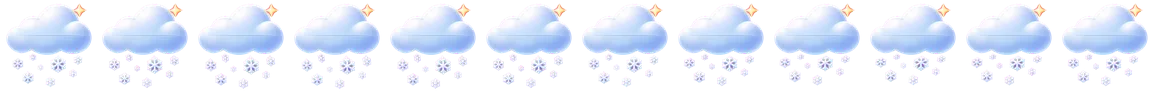
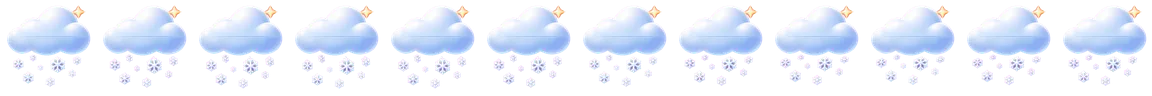
0.27.1: livelier weather pictures (seven animations replaced by the reworked set, 1.5 s loop)
Claude-Session: https://claude.ai/code/session_015MgUfxYvuaf2H4JGRA2gxD

diff --git a/web/sw.js b/web/sw.js
@@ -1,5 +1,5 @@
 // Offline-first service worker. VERSION is kept equal to version.json by scripts/bump-version.mjs (a unit test enforces it).
-const VERSION = '0.27.0';
+const VERSION = '0.27.1';
 const CACHE = `stepup-${VERSION}`;
 const SHELL = ['./', 'index.html', 'manifest.webmanifest', 'version.json', 'icon.svg', 'css/packs.css', 'css/app.css',
   'js/app.js', 'js/routePlan.js', 'js/planner.js', 'js/planApi.js', 'js/ui/mapScreen.js', 'js/ui/planner.js', 'js/theme-boot.js', 'js/util.js', 'js/i18n.js', 'js/native.js', 'js/icons.js', 'js/brand.js', 'js/brandData.js', 'js/iconData.js', 'js/geo.js', 'js/workout.js', 'js/metronome.js', 'js/cadence.js', 'js/audio.js', 'js/format.js', 'js/store.js', 'js/ui/home.js', 'js/plan.js', 'js/indicators.js', 'js/appVersion.js', 'js/art.js', 'js/voice.js', 'js/records.js', 'js/facts.js', 'js/actions.js', 'js/guide.js', 'js/strings08.js', 'js/strings09.js', 'js/strings10.js', 'js/strings11.js', 'js/appShare.js', 'js/changelog.js', 'js/ui/shareApp.js', 'js/ui/whatsnew.js', 'js/permissions.js', 'js/ui/permissions.js', 'js/characterData.js', 'js/puppetRig.js', 'js/ui/puppet.js', 'js/ui/character.js', 'art/character/walk.webp', 'art/character/run.webp', 'art/character/pose-idle.webp', 'art/character/pose-jump.webp', 'art/character/pose-cheer.webp', 'art/character/pose-wave.webp', 'art/character/pose-rest.webp', 'art/character/pose-stretch.webp', 'art/character/pose-medal.webp', 'art/character/pose-trophy.webp', 'art/character/pose-podium.webp', 'art/character/pose-point.webp', 'art/character/pose-think.webp', 'art/character/pose-sit.webp', 'art/character/pose-sleep.webp', 'art/character/pose-rain.webp', 'js/weatherAnim.js', 'js/weatherAnimData.js', 'js/ui/skynow.js', 'js/ui/weather.js', 'art/weather-anim/clear_day.webp', 'art/weather-anim/clear_night.webp', 'art/weather-anim/drizzle_day.webp', 'art/weather-anim/fog_day.webp', 'art/weather-anim/freezing_rain_day.webp', 'art/weather-anim/hail_day.webp', 'art/weather-anim/heavy_rain_day.webp', 'art/weather-anim/mostly_clear_day.webp', 'art/weather-anim/mostly_clear_night.webp', 'art/weather-anim/overcast_day.webp', 'art/weather-anim/partly_cloudy_day.webp', 'art/weather-anim/partly_cloudy_night.webp', 'art/weather-anim/rain_day.webp', 'art/weather-anim/snow_day.webp', 'art/weather-anim/thunderstorm_day.webp', 'js/ui/guide.js', 'art/workout/banner-afternoon-dark.svg', 'art/workout/banner-afternoon-light.svg', 'art/workout/banner-evening-dark.svg', 'art/workout/banner-evening-light.svg', 'art/workout/banner-morning-dark.svg', 'art/workout/banner-morning-light.svg', 'art/workout/banner-night-dark.svg', 'art/workout/banner-night-light.svg', 'art/workout/card-forest-dark.svg', 'art/workout/card-forest-light.svg', 'art/workout/card-ocean-dark.svg', 'art/workout/card-ocean-light.svg', 'art/workout/card-sunrise-dark.svg', 'art/workout/card-sunrise-light.svg', 'art/workout/count-1-dark.svg', 'art/workout/count-1-light.svg', 'art/workout/count-2-dark.svg', 'art/workout/count-2-light.svg', 'art/workout/count-3-dark.svg', 'art/workout/count-3-light.svg', 'art/workout/count-4-dark.svg', 'art/workout/count-4-light.svg', 'art/workout/count-5-dark.svg', 'art/workout/count-5-light.svg', 'art/workout/count-go-dark.svg', 'art/workout/count-go-light.svg', 'art/workout/hint-double-tap-dark.svg', 'art/workout/hint-double-tap-light.svg', 'art/workout/hint-volume-keys-dark.svg', 'art/workout/hint-volume-keys-light.svg', 'js/ui/workoutShare.js', 'js/shareCard.js', 'js/metrics.js', 'js/gpx.js', 'js/daypart.js', 'js/challenge.js', 'art/celebrate/avatar-frame-dark.svg', 'art/celebrate/avatar-frame-light.svg', 'art/celebrate/confetti-circle-dark.svg', 'art/celebrate/confetti-circle-light.svg', 'art/celebrate/confetti-curl-dark.svg', 'art/celebrate/confetti-curl-light.svg', 'art/celebrate/confetti-rectangle-dark.svg', 'art/celebrate/confetti-rectangle-light.svg', 'art/celebrate/confetti-star-dark.svg', 'art/celebrate/confetti-star-light.svg', 'art/celebrate/confetti-triangle-dark.svg', 'art/celebrate/confetti-triangle-light.svg', 'art/celebrate/distance-record-dark.svg', 'art/celebrate/distance-record-light.svg', 'art/celebrate/fastest-kilometre-dark.svg', 'art/celebrate/fastest-kilometre-light.svg', 'art/celebrate/forest-dark.svg', 'art/celebrate/forest-light.svg', 'art/celebrate/laurel-dark.svg', 'art/celebrate/laurel-light.svg', 'art/celebrate/longest-streak-dark.svg', 'art/celebrate/longest-streak-light.svg', 'art/celebrate/medal-dark.svg', 'art/celebrate/medal-light.svg', 'art/celebrate/most-workouts-week-dark.svg', 'art/celebrate/most-workouts-week-light.svg', 'art/celebrate/ocean-dark.svg', 'art/celebrate/ocean-light.svg', 'art/celebrate/pace-record-dark.svg', 'art/celebrate/pace-record-light.svg', 'art/celebrate/podium-floor-dark.svg', 'art/celebrate/podium-floor-light.svg', 'art/celebrate/podium-steps-dark.svg', 'art/celebrate/podium-steps-light.svg', 'art/celebrate/rays-dark.svg', 'art/celebrate/rays-light.svg', 'art/celebrate/ribbon-dark.svg', 'art/celebrate/ribbon-light.svg', 'art/celebrate/sunrise-dark.svg', 'art/celebrate/sunrise-light.svg', 'art/celebrate/trophy-dark.svg', 'art/celebrate/trophy-light.svg', 'js/podiumCard.js', 'js/ui/podium.js', 'js/mapView.js', 'js/ui/maptiles.js', 'js/backup.js', 'js/ui/backup.js', 'art/badges/almost-distance-dark.svg', 'art/badges/almost-distance-light.svg', 'art/badges/almost-record-dark.svg', 'art/badges/almost-record-light.svg', 'art/badges/faster-last-dark.svg', 'art/badges/faster-last-light.svg', 'art/badges/fastest-km-dark.svg', 'art/badges/fastest-km-light.svg', 'art/badges/new-record-dark.svg', 'art/badges/new-record-light.svg', 'art/badges/passed-distance-dark.svg', 'art/badges/passed-distance-light.svg', 'art/onboarding/caught-up-dark.svg', 'art/onboarding/caught-up-light.svg', 'art/onboarding/no-plan-dark.svg', 'art/onboarding/no-plan-light.svg', 'art/onboarding/no-routes-dark.svg', 'art/onboarding/no-routes-light.svg', 'art/onboarding/no-workouts-dark.svg', 'art/onboarding/no-workouts-light.svg', 'art/onboarding/offline-dark.svg', 'art/onboarding/offline-light.svg', 'art/onboarding/welcome-dark.svg', 'art/onboarding/welcome-light.svg', 'art/weather/clear-dark.svg', 'art/weather/clear-light.svg', 'art/weather/cloudy-dark.svg', 'art/weather/cloudy-light.svg', 'art/weather/cold-dark.svg', 'art/weather/cold-light.svg', 'art/weather/hot-dark.svg', 'art/weather/hot-light.svg', 'art/weather/rain-dark.svg', 'art/weather/rain-light.svg', 'art/weather/windy-dark.svg', 'art/weather/windy-light.svg', 'js/update.js', 'js/strings07.js', 'js/ui/about.js', 'js/strings06.js', 'js/ui/plan.js', 'js/schedule.js', 'js/widgetData.js', 'js/syncNative.js', 'js/strings05.js', 'js/route.js', 'js/routeReco.js', 'js/strings04.js', 'js/ui/routes.js', 'js/ui/livemap.js', 'js/forecast.js', 'js/reco.js', 'js/weatherApi.js', 'js/strings03.js', 'js/ui/reco.js', 'js/stats.js', 'js/steps.js', 'js/effort.js', 'js/reminders.js', 'js/alerts.js', 'js/search.js', 'js/charts.js', 'js/reminderLoop.js', 'js/strings02.js', 'js/ui/dashboard.js', 'js/ui/alerts.js', 'js/ui/search.js', 'js/ui/notify.js', 'js/ui/settings.js', 'js/ui/history.js', 'js/ui/workout.js', 'js/ui/rhythm.js',

diff --git a/web/js/changelog.js b/web/js/changelog.js
@@ -1,5 +1,8 @@
 // "What is new", in the app's two languages: user-facing bullets only, newest first. docs/CHANGELOG.md is the developer copy (a unit test keeps the two in step).
 export const CHANGES = [
+  { v: '0.27.1',
+    en: ['Livelier weather pictures: sun rays and sparkle, drifting clouds, a moving moon and a stormy sky now really move.'],
+    he: ['תמונות מזג האוויר חיות יותר: קרני השמש והנצנוץ, עננים נעים, ירח זז ושמיים סוערים באמת זזים עכשיו.'] },
   { v: '0.27.0',
     en: ['Measuring now begins when you really start walking or running: after Start the app waits for steady movement (a run needs a quicker pace) and counts from there. "Start measuring now" begins at once.', 'New weather screen: tap the sky picture for the weather hour by hour - temperature, humidity, rain, wind - for your place, a saved route or any place you search.', 'Charts and progress bars now animate when they appear.'],
     he: ['המדידה מתחילה עכשיו כשבאמת מתחילים ללכת או לרוץ: אחרי לחיצה על התחלה האפליקציה ממתינה לתנועה יציבה (ריצה דורשת קצב מהיר יותר) וסופרת משם. "התחל למדוד עכשיו" מתחיל מיד.', 'מסך מזג אוויר חדש: לחיצה על תמונת השמיים פותחת את מזג האוויר שעה אחר שעה - טמפרטורה, לחות, גשם, רוח - למקום שלכם, למסלול שמור או לכל מקום שתחפשו.', 'גרפים ופסי התקדמות מונפשים עכשיו כשהם מופיעים.'] },

diff --git a/web/js/weatherAnimData.js b/web/js/weatherAnimData.js
@@ -1,2 +1,2 @@
 // GENERATED by scripts/make-weather-sprites.py - do not edit.
-export const WEATHER_ANIM = {"frames": 12, "size": 96, "ms": 1800, "conditions": ["clear_day", "clear_night", "drizzle_day", "fog_day", "freezing_rain_day", "hail_day", "heavy_rain_day", "mostly_clear_day", "mostly_clear_night", "overcast_day", "partly_cloudy_day", "partly_cloudy_night", "rain_day", "snow_day", "thunderstorm_day"]};
+export const WEATHER_ANIM = {"frames": 12, "size": 96, "ms": 1500, "conditions": ["clear_day", "clear_night", "drizzle_day", "fog_day", "freezing_rain_day", "hail_day", "heavy_rain_day", "mostly_clear_day", "mostly_clear_night", "overcast_day", "partly_cloudy_day", "partly_cloudy_night", "rain_day", "snow_day", "thunderstorm_day"]};

diff --git a/web/js/appVersion.js b/web/js/appVersion.js
@@ -1,2 +1,2 @@
 // The version of the code that is running (kept equal to version.json by scripts/bump-version.mjs; a unit test enforces it).
-export const APP_VERSION = '0.27.0';
+export const APP_VERSION = '0.27.1';

diff --git a/scripts/make-weather-sprites.py b/scripts/make-weather-sprites.py
@@ -1,5 +1,5 @@
 """Turns the illustrator's weather animation frames into the app's sprites (a dev tool, not part of CI; needs Pillow + numpy).
-Usage: python3 scripts/make-weather-sprites.py <dir with wxa_<condition>_01..12.png> [<more dirs>...]
+Usage: python3 scripts/make-weather-sprites.py <dir with wxa_<condition>_01..12.png> [<more dirs>...]   (a later directory replaces the same condition of an earlier one)
 Each frame (512 px, flat magenta background) is keyed to transparency (the soft edge keeps its colour, the magenta fringe is removed), every frame of ALL
 conditions is cropped to one common box and scaled by one factor, so the icons keep the same size and place, then one strip per condition is written:
   web/art/weather-anim/<condition>.webp   12 frames of 96 x 96 side by side
@@ -23,10 +23,11 @@ def key_out(path):
     return np.dstack([np.clip(c, 0, 255), a * 255]).astype(np.uint8)
 
 conds = {}
-for d in sys.argv[1:]:
+for d in sys.argv[1:]:                                   # a later directory REPLACES a condition of an earlier one (reworked sets win)
+    found = {}
     for p in sorted(Path(d).glob('wxa_*_[0-9][0-9].png')):
-        name = p.stem.rsplit('_', 1)[0][4:]
-        conds.setdefault(name, []).append(p)
+        found.setdefault(p.stem.rsplit('_', 1)[0][4:], []).append(p)
+    conds.update(found)
 if not conds: sys.exit('no frames found')
 frames = {n: [key_out(p) for p in sorted(ps)] for n, ps in conds.items()}
 assert all(len(v) == N for v in frames.values()), {n: len(v) for n, v in frames.items()}
@@ -44,4 +45,4 @@ for name, fl in sorted(frames.items()):
         strip.paste(Image.fromarray(f, 'RGBA').crop(box).resize((FR, FR), Image.LANCZOS), (i * FR, 0))
     strip.save(OUT / f'{name}.webp', 'WEBP', quality=78, method=6)
     print(f'{name:22s} {(OUT / f"{name}.webp").stat().st_size // 1024} KB')
-Path('web/js/weatherAnimData.js').write_text('// GENERATED by scripts/make-weather-sprites.py - do not edit.\nexport const WEATHER_ANIM = ' + json.dumps({'frames': N, 'size': FR, 'ms': 1800, 'conditions': sorted(frames)}) + ';\n')
+Path('web/js/weatherAnimData.js').write_text('// GENERATED by scripts/make-weather-sprites.py - do not edit.\nexport const WEATHER_ANIM = ' + json.dumps({'frames': N, 'size': FR, 'ms': 1500, 'conditions': sorted(frames)}) + ';\n')

diff --git a/docs/ARCHITECTURE.md b/docs/ARCHITECTURE.md
@@ -83,7 +83,7 @@ GPS: 1 s fixes, 4 s after 15 slow fixes in a row (`TrackingMath`); service stops
 Pure CSS in `app.css`: bars `scaleY` from the baseline with a per-bar `--i` delay, the line draws itself (`pathLength=1`, dash offset), dots and the target line fade in, `.meter > span` fills. `html[data-calm="1"]` and `prefers-reduced-motion` switch all of it off; the journey runs with reduced motion so screenshots are steady.
 
 ### Animated weather pictures (0.26.0)
-The illustrator's 15 weather animations (12 frames each, flat magenta background) are cut by `scripts/make-weather-sprites.py` into `web/art/weather-anim/<condition>.webp` (a strip of 12 frames of 96 px, 452 KB for all 15, all precached) and `weatherAnimData.js`. The forecast request now also asks Open-Meteo for the hourly `weather_code` (same host, nothing else sent; stored as an integer 0-99, `-1` = unknown, also in the 1 h cache). `weatherAnim.conditionOf(code, day)` maps WMO codes to a condition (night pictures exist only for clear, mostly clear and partly cloudy; every other condition uses its day picture at night); `weatherIcon` draws the strip with `steps(12)` only while `.anim-on` (the calm switch and reduced motion stop it). `ui/skynow.js` shows picture + temperature + a word from the CACHED forecast (`skyNow`) or fills itself after the one hourly request (`skySlot`): on the Home day card and the Recommendations banner (the kit's static banner stays as the fallback).
+The illustrator's 15 weather animations (12 frames each, flat magenta background) are cut by `scripts/make-weather-sprites.py` into `web/art/weather-anim/<condition>.webp` (a strip of 12 frames of 96 px, 500 KB for all 15, all precached; 1.5 s per loop; seven conditions come from the reworked set, the script lets a later input directory replace a condition) and `weatherAnimData.js`. The forecast request now also asks Open-Meteo for the hourly `weather_code` (same host, nothing else sent; stored as an integer 0-99, `-1` = unknown, also in the 1 h cache). `weatherAnim.conditionOf(code, day)` maps WMO codes to a condition (night pictures exist only for clear, mostly clear and partly cloudy; every other condition uses its day picture at night); `weatherIcon` draws the strip with `steps(12)` only while `.anim-on` (the calm switch and reduced motion stop it). `ui/skynow.js` shows picture + temperature + a word from the CACHED forecast (`skyNow`) or fills itself after the one hourly request (`skySlot`): on the Home day card and the Recommendations banner (the kit's static banner stays as the fallback).
 
 ### Sharing and what is new (0.25.0)
 `ui/shareApp.js` builds the one share text (`shareText`: both links) and offers `wa.me` and `mailto:` links from `appShare.js` (pure, capped at 600 characters, percent-encoded), the system share (`native.share` / `navigator.share`) and the clipboard; no network call, nothing about the person. `ui/whatsnew.js` shows `changelog.js` (he + en) once per version (`da.seenVersion`; a first install only records it; skipped over a workout or while the permissions sheet is open) and from About. Adding a release = add its entry to `changelog.js` AND `docs/CHANGELOG.md` (a unit test enforces both).

diff --git a/docs/CHANGELOG.md b/docs/CHANGELOG.md
@@ -1,5 +1,8 @@
 # Changelog
 
+## 0.27.1
+- **Livelier weather pictures.** Seven of the 15 animations are replaced by the illustrator's reworked set with real motion (sun rays and sparkle, drifting clouds, a moving moon glow, lightning and rain in the storm): sunny, clear night, mostly sunny / clear (day and night), partly cloudy (day and night) and thunderstorm. The loop is now 1.5 s for all (12 frames at 8 fps). No magenta fringe is left on the edges (checked: 0 of 716 343 edge pixels). The other eight stay as before. The reworked sheets are kept in `design/stepup/weather-motion/*_rework_sheet.jpg`; `scripts/make-weather-sprites.py` now lets a later directory replace a condition of an earlier one.
+
 ## 0.27.0
 - **Measuring starts when the activity really starts.** After **Start** the app finds your position by itself, shows "Waiting for you to start walking / running", and begins the time, distance and route only when it sees steady movement in the GPS fixes: a **walk** needs about 12 m at 0.9 m/s or more, a **run** about 18 m at 1.8 m/s or more, within 4-20 s, travelled in a straight-ish line (standing with GPS wander never starts it). The start is back-dated to where the movement began, so the first strides count. **Start measuring now** begins at once (treadmill); without a usable GPS it begins at once by itself. Settings > *Start measuring when I start moving* turns it off. Older saved workouts keep measuring as before.
 - **Weather screen** (tap the sky picture on Home or Recommendations, or search "weather"): hour by hour for today and the next two days with the sky picture, temperature, feels like, **humidity**, chance and amount of **rain**, wind and UV; pick any hour. Choose **My location**, **a saved route** (its start) or **search any place**; each place has its own cached forecast (4 kept, 1 hour). The forecast request now also asks for the hourly humidity. Charts of the day's temperature and rain.
